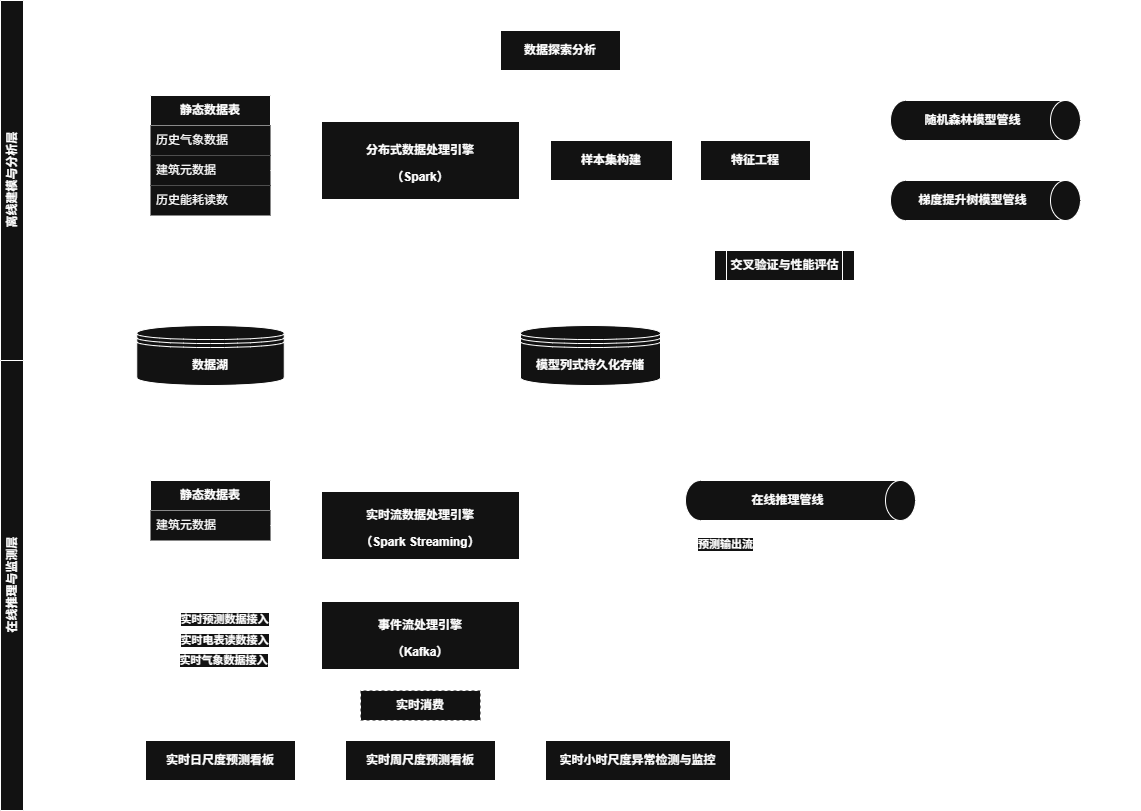
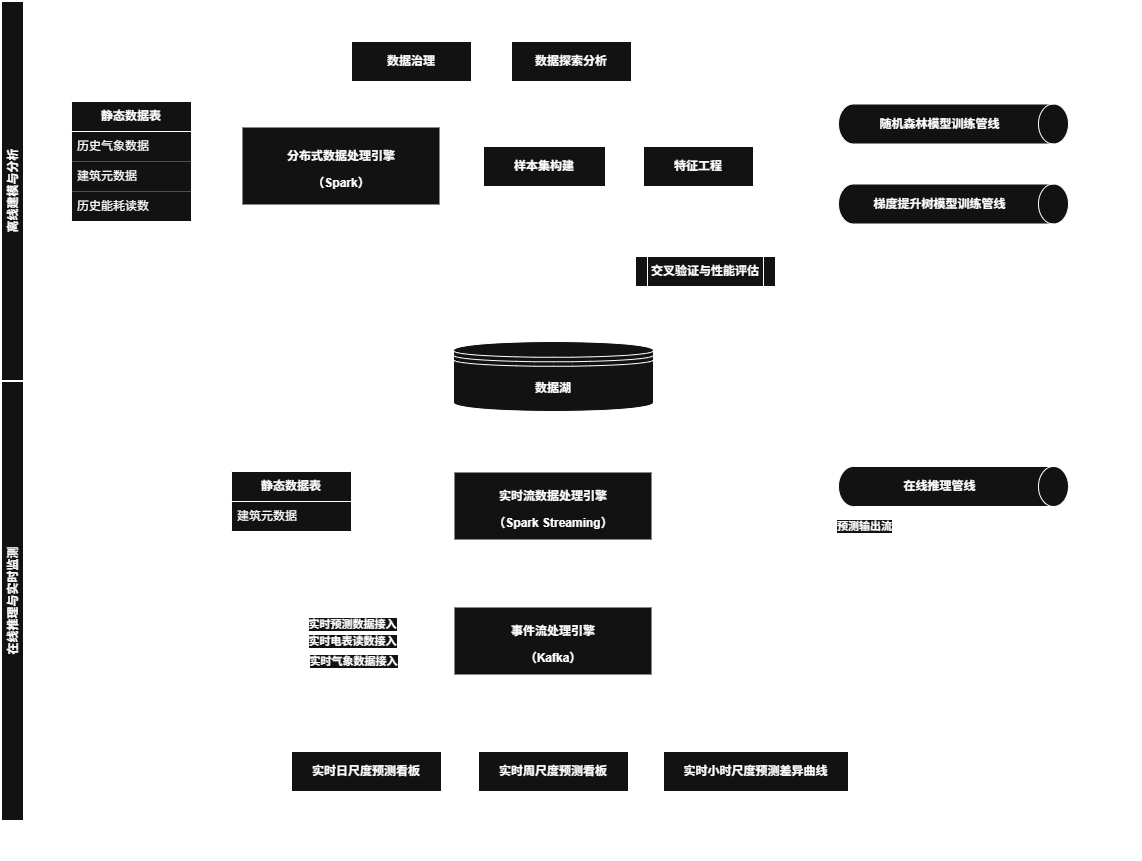
Refactored the project folder structure.

diff --git a/README.ch-zh.md b/README.ch-zh.md
@@ -1,40 +1,38 @@
-[English](README.md)|[中文简体](README.ch-zh.md)
+[English](README.md) | [中文简体](README.ch-zh.md) 
 
 # **实时建筑能耗负荷预测平台**
 
-## **1 项目介绍**
-本项目构建了一个基于 Spark 与 Kafka 的大数据建筑能耗预测与实时监测系统原型，以实现建筑能耗的趋势预测与异常检测。系统整体采用分层存储加批流一体化架构设计，涵盖数据采集、分布式处理、模型训练、实时推理与可视化展示的完整流程，可模拟小时级能耗数据的实时流入与预测过程。本人独立完成系统架构设计、流式处理实现及模型优化部分。
+## **一、项目介绍**
 
----
+本项目构建了一个基于 Spark 与 Kafka 的大数据建筑能耗预测与实时监测系统原型，以实现建筑能耗的趋势预测与异常检测。系统整体采用分层存储加批流一体化架构设计，涵盖数据采集、分布式处理、模型训练、实时推理与可视化展示的完整流程，可模拟小时级能耗数据的实时流入与预测过程。本人独立进行离线建模与分析和实现在线推理与实时监测。
 
-## **2 数据介绍**
-数据由莫纳什大学（Monash University）提供，涵盖 2022 年全年、时间精度至小时级，覆盖澳大利亚墨尔本多个区域的多栋建筑，包括：
-1. 气象数据（空气气温、地表气温、风速、风向、云层遮盖率等）
-2. 建筑元数据（楼层数、功能用途、占地面积等）
-3. 电表读数
+## **二、数据介绍**
 
----
+数据由莫纳什大学（Monash University）提供，涵盖 2022 年全年、时间精度至小时级，覆盖澳大利亚墨尔本多个区域的多栋建筑，包括： 1. 气象数据（空气气温、地表气温、风速、风向、云层遮盖率等） 2. 建筑元数据（楼层数、功能用途、占地面积等） 3. 电表读数
 
-## **3 项目结构图**
-![Structure.png](Image/Structure.png)
+## **三、项目流程图**
 
----
+![](Image/Structure.png)
 
-## **4 项目流程介绍**
-系统采用批流一体设计，离线层负责历史数据治理与模型训练，在线层承接实时流接入与在线推理；两层通过模型持久化与数据湖解耦联动。
+## **四、项目流程介绍**
 
-### **4.1 数据存储与接入**
-系统的数据域采用“三层主题”组织方式：建筑元数据层、气象数据层与能耗负荷数据层相互独立又可关联。每一层同时设有静态历史区与实时/接入区：静态区以 CSV/Parquet 混合格式存储，由 Spark 进行批量读取，用于特征工程与离线训练；实时区以 Parquet 合适存储，通过 Kafka 流式引入，使下游流处理与在线推理能够以较低时延消费数据。整体粒度以小时级为主，便于按天聚合与跨域关联，同时兼顾离线吞吐与在线时效。
+项目采用批流一体设计，离线层负责历史数据治理与模型训练，在线层承接实时流接入与在线推理；两层通过数据湖解耦联动。
 
+### **1、数据存储与接入**
 
-### **4.2 离线建模与分析层**
-离线建模与分析以 Spark 为核心完成数据清洗、特征构造与样本集生成。在对随机森林与梯度提升树等集成学习算法进行基准精度对比后，最终选定梯度提升树作为主模型；基准 RMSLE 为 2.03，经过包含学习率、树深度与迭代轮数在内的超参数调优后，将误差降至 1.33。训练完成的最优模型进行持久化，供在线推理模块按需加载，形成从离线到在线的可迁移闭环。
+系统的数据域采用四层主题组织方式：建筑元数据层、气象数据层、能耗负荷数据层与模型层。前三层层同时设有静态历史区与实时/接入区：静态区以 CSV/Parquet 混合格式存储，由 Spark 进行批量读取，用于特征工程与离线训练；实时区以 Parquet 合适存储，通过 Kafka 流式引入，使下游流处理与在线推理能够以较低时延消费数据。整体数据粒度以小时级为主。
 
-### **4.3 在线推理与实时监测层**
-在线推理与监测部分以 Kafka 承载实时能耗与气象数据流，Spark Streaming 负责窗口聚合与在线预测。我设定 5 秒水位线阈值以处理乱序和延迟，并采用 7 秒窗宽的非重叠窗口计算（基于实验平衡吞吐与延迟的结果），既保证吞吐稳定，又控制端到端延迟。为增强运行韧性，流作业启用了检查点（checkpoint）以支持断点恢复与状态一致性，确保在故障或重启后能够平滑续跑。
+### **2、离线建模与分析**
 
-### **4.4 流量模拟**
-在此基础上，为验证系统在高频流场景下的稳定性，我设计了可控的流量模拟方案：源数据以小时为精度，每 24 条代表 24 小时并共享同一秒级时间戳；系统以每 5 秒发送 120 条的速率推送至 Kafka，以此驱动高频在线预测与窗口聚合。预测结果与关键监测指标实时回填到可视化仪表板，用于能耗趋势观察与异常告警展示，从而完整呈现批流一体架构下的端到端数据通路与工程实现能力。
+离线建模与分析以 Spark 为核心完成数据清洗、特征构造与样本集生成。在对随机森林与梯度提升树等集成学习算法进行基准精度对比后，最终选定梯度提升树作为主模型；梯度提升树基准 RMSLE 为 2.03，经过包含学习率、树深度与迭代轮数在内的超参数调优后，将误差降至 1.33。训练完成的最优模型以 Parquet 格式存储于数据湖中，供在线推理模块按需加载。
+
+### **3、在线推理与实时监测**
+
+在线推理与监测部分以 Kafka 承载实时预测、能耗与气象数据流，Spark Streaming 负责窗口聚合与在线预测。项目设定 5 秒水位线阈值以处理乱序和延迟，并采用 7 秒窗宽的非重叠窗口计算（基于实验平衡吞吐与延迟的结果），既保证吞吐稳定，又控制端到端延迟。为增强运行韧性，流作业启用了检查点以支持断点恢复与状态一致性，确保在故障或重启后能够平滑续跑。
+
+### **4、流量模拟**
+
+项目源数据以小时为精度，每 24 条代表 24 小时并共享同一秒级时间戳；系统以每 5 秒发送 120 条的速率推送至 Kafka，以此驱动高频在线预测与窗口聚合。预测结果与关键监测指标实时回填到可视化仪表板，用于能耗趋势观察与异常告警展示，从而完整呈现批流一体架构下的端到端数据通路与工程实现能力。
 
 ---
 

diff --git a/README.md b/README.md
@@ -1,11 +1,45 @@
-[English](README.md)|[中文简体](README.ch-zh.md)
+[English](README.md) | [中文简体](README.ch-zh.md) 
 
-# **VoltStream: A Streaming Power Load Forecasting Framework**
+# **Real-Time Building Energy Load Forecasting Platform**
 
-VoltStream is a real-time power load forecasting framework built on Apache Spark and Kafka, designed for smart grid applications.
-It integrates multi-source data — including real-time power measurements, weather information, and building attributes — to enhance forecasting accuracy.
-The system implements distributed model training and streaming inference, enabling scalable, low-latency, and continuously updated energy predictions.
+## **1. Project Introduction**
 
-Please refer to [the project document](Document/README.md) for more detail
+This project builds a prototype big data system for building energy consumption forecasting and real-time monitoring, based on Spark and Kafka, to achieve energy trend prediction and anomaly detection. The overall system adopts a layered storage and batch–stream integrated architecture design, covering the complete process of data collection, distributed processing, model training, real-time inference, and visualization. It can simulate the real-time streaming and prediction of hourly energy consumption data. I independently completed offline modeling and analysis, as well as the implementation of online inference and real-time monitoring.
 
-**Tech Stack:** Spark · Kafka · Python · Machine Learning · Random Forest · Gradient Boosting Tree
+## **2. Data Description**
+
+The dataset is provided by Monash University, covering the entire year of 2022 with hourly granularity and multiple buildings in different regions of Melbourne, Australia. It includes:  
+1. Meteorological data (air temperature, surface temperature, wind speed, wind direction, cloud cover rate, etc.)  
+2. Building metadata (number of floors, functional use, floor area, etc.)  
+3. Electric meter readings
+
+## **3. Project Workflow Diagram**
+
+![](Image/Structure_en.png)
+
+## **4. Project Workflow Description**
+
+The project adopts a batch–stream integration design: the offline layer is responsible for historical data governance and model training, while the online layer handles real-time data ingestion and online inference. The two layers are decoupled and connected through a data lake.
+
+### **4.1. Data Storage and Ingestion**
+
+The system’s data domain is organized into four thematic layers: Building Metadata Layer, Meteorological Data Layer, Energy Load Layer, and Model Layer. The first three layers each have both a static (historical) zone and a real-time/ingestion zone: The static zone stores data in a CSV/Parquet hybrid format, read in batches by Spark for feature engineering and offline training. The real-time zone stores data in Parquet format, streamed in via Kafka, allowing downstream stream processing and online inference to consume data with low latency.  
+Overall data granularity is primarily hourly.
+
+### **4.2. Offline Modeling and Analysis**
+
+Offline modeling and analysis are completed using Spark for data cleaning, feature construction, and sample generation. After comparing benchmark accuracy between ensemble learning algorithms such as Random Forest and Gradient Boosted Trees, the latter was selected as the primary model. The baseline RMSLE of the Gradient Boosted Tree model was 2.03, and after hyperparameter tuning—including learning rate, tree depth, and iteration count—the error was reduced to 1.33.  
+The trained optimal model is stored in Parquet format in the data lake and is loaded by the online inference module as needed.
+
+### **4.3. Online Inference and Real-Time Monitoring**
+
+The online inference and monitoring component uses Kafka to carry real-time streams of predictions, energy, and meteorological data, while Spark Streaming performs window aggregation and online prediction. A 5-second watermark threshold is set to handle out-of-order and delayed data, and a 7-second non-overlapping window is used (based on experimental results balancing throughput and latency), ensuring both stable throughput and controlled end-to-end latency.  
+To enhance system resilience, checkpointing is enabled to support fault recovery and state consistency, ensuring smooth resumption after failure or restart.
+
+### **4.4. Stream Simulation**
+
+The source data has hourly precision, with each 24 records representing 24 hours and sharing the same second-level timestamp. The system pushes 120 records every 5 seconds to Kafka, driving high-frequency online prediction and window aggregation. Prediction results and key monitoring metrics are written back in real time to a visualization dashboard, supporting observation of energy consumption trends and anomaly alerts, thereby fully demonstrating the end-to-end data pipeline and engineering capability under the batch–stream integrated architecture.
+
+---
+
+**Tech Stack:** Spark · Kafka · Python · Ensemble Learning (Random Forest · Gradient Boosted Trees)
